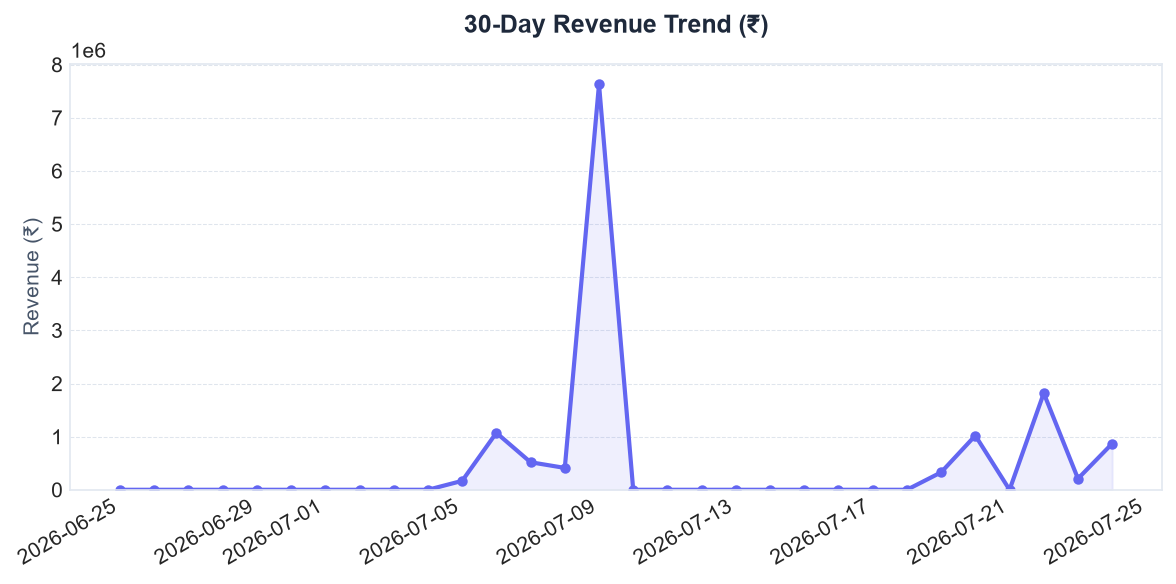
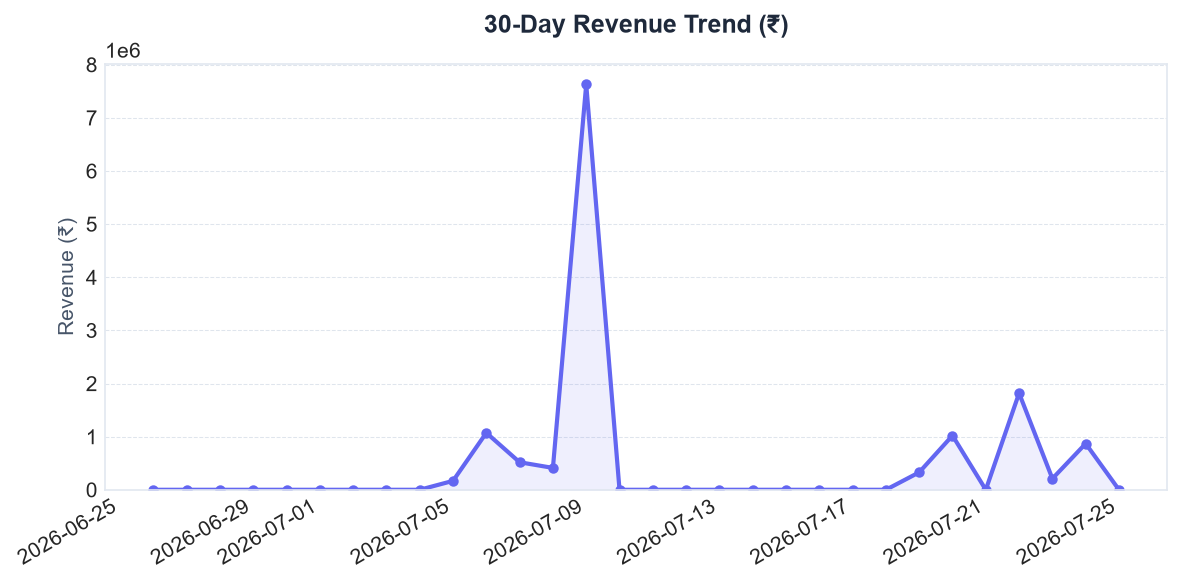
Improve admin side

diff --git a/frontend/src/pages/AdminDashboard.jsx b/frontend/src/pages/AdminDashboard.jsx
@@ -1469,40 +1469,40 @@ export const AdminDashboard = () => {
             <div className="flex flex-wrap gap-1 md:space-x-2 border-b border-slate-200 dark:border-slate-800 pb-px mb-8">
               <button
                 onClick={() => handleTabChange('overview')}
-                className={`pb-3 px-3 md:px-4 text-xs md:text-sm border-b-2 transition-all ${
+                className={`pb-3 px-3 md:px-4 text-xs md:text-sm border-b-2 transition-all duration-200 ${
                   activeTab === 'overview'
                     ? 'bg-[rgba(212,167,95,0.15)] text-[#D4A75F] border-[#D4A75F] font-semibold'
-                    : 'border-transparent text-[#B0B7C3] hover:text-white font-normal'
+                    : 'border-transparent text-slate-600 dark:text-[#B0B7C3] hover:text-[#3F1D5A] dark:hover:text-white hover:bg-amber-500/10 dark:hover:bg-transparent rounded-t-lg font-normal'
                 }`}
               >
                 Analytics
               </button>
               <button
                 onClick={() => handleTabChange('products')}
-                className={`pb-3 px-3 md:px-4 text-xs md:text-sm border-b-2 transition-all ${
+                className={`pb-3 px-3 md:px-4 text-xs md:text-sm border-b-2 transition-all duration-200 ${
                   activeTab === 'products'
                     ? 'bg-[rgba(212,167,95,0.15)] text-[#D4A75F] border-[#D4A75F] font-semibold'
-                    : 'border-transparent text-[#B0B7C3] hover:text-white font-normal'
+                    : 'border-transparent text-slate-600 dark:text-[#B0B7C3] hover:text-[#3F1D5A] dark:hover:text-white hover:bg-amber-500/10 dark:hover:bg-transparent rounded-t-lg font-normal'
                 }`}
               >
                 Products
               </button>
               <button
                 onClick={() => handleTabChange('orders')}
-                className={`pb-3 px-3 md:px-4 text-xs md:text-sm border-b-2 transition-all ${
+                className={`pb-3 px-3 md:px-4 text-xs md:text-sm border-b-2 transition-all duration-200 ${
                   activeTab === 'orders'
                     ? 'bg-[rgba(212,167,95,0.15)] text-[#D4A75F] border-[#D4A75F] font-semibold'
-                    : 'border-transparent text-[#B0B7C3] hover:text-white font-normal'
+                    : 'border-transparent text-slate-600 dark:text-[#B0B7C3] hover:text-[#3F1D5A] dark:hover:text-white hover:bg-amber-500/10 dark:hover:bg-transparent rounded-t-lg font-normal'
                 }`}
               >
                 Orders
               </button>
               <button
                 onClick={() => handleTabChange('buy-requests')}
-                className={`pb-3 px-3 md:px-4 text-xs md:text-sm border-b-2 transition-all flex items-center gap-1.5 ${
+                className={`pb-3 px-3 md:px-4 text-xs md:text-sm border-b-2 transition-all duration-200 flex items-center gap-1.5 ${
                   activeTab === 'buy-requests'
                     ? 'bg-[rgba(212,167,95,0.15)] text-[#D4A75F] border-[#D4A75F] font-semibold'
-                    : 'border-transparent text-[#B0B7C3] hover:text-white font-normal'
+                    : 'border-transparent text-slate-600 dark:text-[#B0B7C3] hover:text-[#3F1D5A] dark:hover:text-white hover:bg-amber-500/10 dark:hover:bg-transparent rounded-t-lg font-normal'
                 }`}
               >
                 <span>Buy Requests</span>
@@ -1514,40 +1514,40 @@ export const AdminDashboard = () => {
               </button>
               <button
                 onClick={() => handleTabChange('users')}
-                className={`pb-3 px-3 md:px-4 text-xs md:text-sm border-b-2 transition-all ${
+                className={`pb-3 px-3 md:px-4 text-xs md:text-sm border-b-2 transition-all duration-200 ${
                   activeTab === 'users'
                     ? 'bg-[rgba(212,167,95,0.15)] text-[#D4A75F] border-[#D4A75F] font-semibold'
-                    : 'border-transparent text-[#B0B7C3] hover:text-white font-normal'
+                    : 'border-transparent text-slate-600 dark:text-[#B0B7C3] hover:text-[#3F1D5A] dark:hover:text-white hover:bg-amber-500/10 dark:hover:bg-transparent rounded-t-lg font-normal'
                 }`}
               >
                 Users
               </button>
               <button
                 onClick={() => handleTabChange('support')}
-                className={`pb-3 px-3 md:px-4 text-xs md:text-sm border-b-2 transition-all ${
+                className={`pb-3 px-3 md:px-4 text-xs md:text-sm border-b-2 transition-all duration-200 ${
                   activeTab === 'support'
                     ? 'bg-[rgba(212,167,95,0.15)] text-[#D4A75F] border-[#D4A75F] font-semibold'
-                    : 'border-transparent text-[#B0B7C3] hover:text-white font-normal'
+                    : 'border-transparent text-slate-600 dark:text-[#B0B7C3] hover:text-[#3F1D5A] dark:hover:text-white hover:bg-amber-500/10 dark:hover:bg-transparent rounded-t-lg font-normal'
                 }`}
               >
                 Messages
               </button>
               <button
                 onClick={() => handleTabChange('audit')}
-                className={`pb-3 px-3 md:px-4 text-xs md:text-sm border-b-2 transition-all ${
+                className={`pb-3 px-3 md:px-4 text-xs md:text-sm border-b-2 transition-all duration-200 ${
                   activeTab === 'audit'
                     ? 'bg-[rgba(212,167,95,0.15)] text-[#D4A75F] border-[#D4A75F] font-semibold'
-                    : 'border-transparent text-[#B0B7C3] hover:text-white font-normal'
+                    : 'border-transparent text-slate-600 dark:text-[#B0B7C3] hover:text-[#3F1D5A] dark:hover:text-white hover:bg-amber-500/10 dark:hover:bg-transparent rounded-t-lg font-normal'
                 }`}
               >
                 Audit Trail
               </button>
               <button
                 onClick={() => handleTabChange('notifications')}
-                className={`pb-3 px-3 md:px-4 text-xs md:text-sm border-b-2 transition-all flex items-center gap-1.5 ${
+                className={`pb-3 px-3 md:px-4 text-xs md:text-sm border-b-2 transition-all duration-200 flex items-center gap-1.5 ${
                   activeTab === 'notifications'
                     ? 'bg-[rgba(212,167,95,0.15)] text-[#D4A75F] border-[#D4A75F] font-semibold'
-                    : 'border-transparent text-[#B0B7C3] hover:text-white font-normal'
+                    : 'border-transparent text-slate-600 dark:text-[#B0B7C3] hover:text-[#3F1D5A] dark:hover:text-white hover:bg-amber-500/10 dark:hover:bg-transparent rounded-t-lg font-normal'
                 }`}
               >
                 <span>Notifications</span>

diff --git a/frontend/src/pages/AdminControl.jsx b/frontend/src/pages/AdminControl.jsx
@@ -3172,54 +3172,54 @@ export const AdminControl = () => {
             <div className="flex space-x-2 border-b border-slate-200 dark:border-slate-800 pb-px mb-8 overflow-x-auto">
               <button
                 onClick={() => handleTabChange('products')}
-                className={`pb-3 px-4 text-sm border-b-2 transition-all whitespace-nowrap ${activeTab === 'products'
+                className={`pb-3 px-4 text-sm border-b-2 transition-all duration-200 whitespace-nowrap ${activeTab === 'products'
                     ? 'bg-[rgba(212,167,95,0.15)] text-[#D4A75F] border-[#D4A75F] font-semibold'
-                    : 'border-transparent text-[#B0B7C3] hover:text-white font-normal'
+                    : 'border-transparent text-slate-600 dark:text-[#B0B7C3] hover:text-[#3F1D5A] dark:hover:text-white hover:bg-amber-500/10 dark:hover:bg-transparent rounded-t-lg font-normal'
                   }`}
               >
                 Product Management
               </button>
               <button
                 onClick={() => handleTabChange('users')}
-                className={`pb-3 px-4 text-sm border-b-2 transition-all whitespace-nowrap ${activeTab === 'users'
+                className={`pb-3 px-4 text-sm border-b-2 transition-all duration-200 whitespace-nowrap ${activeTab === 'users'
                     ? 'bg-[rgba(212,167,95,0.15)] text-[#D4A75F] border-[#D4A75F] font-semibold'
-                    : 'border-transparent text-[#B0B7C3] hover:text-white font-normal'
+                    : 'border-transparent text-slate-600 dark:text-[#B0B7C3] hover:text-[#3F1D5A] dark:hover:text-white hover:bg-amber-500/10 dark:hover:bg-transparent rounded-t-lg font-normal'
                   }`}
               >
                 User Management
               </button>
               <button
                 onClick={() => handleTabChange('orders')}
-                className={`pb-3 px-4 text-sm border-b-2 transition-all whitespace-nowrap ${activeTab === 'orders'
+                className={`pb-3 px-4 text-sm border-b-2 transition-all duration-200 whitespace-nowrap ${activeTab === 'orders'
                     ? 'bg-[rgba(212,167,95,0.15)] text-[#D4A75F] border-[#D4A75F] font-semibold'
-                    : 'border-transparent text-[#B0B7C3] hover:text-white font-normal'
+                    : 'border-transparent text-slate-600 dark:text-[#B0B7C3] hover:text-[#3F1D5A] dark:hover:text-white hover:bg-amber-500/10 dark:hover:bg-transparent rounded-t-lg font-normal'
                   }`}
               >
                 Orders Management
               </button>
               <button
                 onClick={() => handleTabChange('support')}
-                className={`pb-3 px-4 text-sm border-b-2 transition-all whitespace-nowrap ${activeTab === 'support'
+                className={`pb-3 px-4 text-sm border-b-2 transition-all duration-200 whitespace-nowrap ${activeTab === 'support'
                     ? 'bg-[rgba(212,167,95,0.15)] text-[#D4A75F] border-[#D4A75F] font-semibold'
-                    : 'border-transparent text-[#B0B7C3] hover:text-white font-normal'
+                    : 'border-transparent text-slate-600 dark:text-[#B0B7C3] hover:text-[#3F1D5A] dark:hover:text-white hover:bg-amber-500/10 dark:hover:bg-transparent rounded-t-lg font-normal'
                   }`}
               >
                 Support Tickets
               </button>
               <button
                 onClick={() => handleTabChange('config')}
-                className={`pb-3 px-4 text-sm border-b-2 transition-all whitespace-nowrap ${activeTab === 'config'
+                className={`pb-3 px-4 text-sm border-b-2 transition-all duration-200 whitespace-nowrap ${activeTab === 'config'
                     ? 'bg-[rgba(212,167,95,0.15)] text-[#D4A75F] border-[#D4A75F] font-semibold'
-                    : 'border-transparent text-[#B0B7C3] hover:text-white font-normal'
+                    : 'border-transparent text-slate-600 dark:text-[#B0B7C3] hover:text-[#3F1D5A] dark:hover:text-white hover:bg-amber-500/10 dark:hover:bg-transparent rounded-t-lg font-normal'
                   }`}
               >
                 Site Configuration
               </button>
               <button
                 onClick={() => handleTabChange('overview')}
-                className={`pb-3 px-4 text-sm border-b-2 transition-all whitespace-nowrap ${activeTab === 'overview'
+                className={`pb-3 px-4 text-sm border-b-2 transition-all duration-200 whitespace-nowrap ${activeTab === 'overview'
                     ? 'bg-[rgba(212,167,95,0.15)] text-[#D4A75F] border-[#D4A75F] font-semibold'
-                    : 'border-transparent text-[#B0B7C3] hover:text-white font-normal'
+                    : 'border-transparent text-slate-600 dark:text-[#B0B7C3] hover:text-[#3F1D5A] dark:hover:text-white hover:bg-amber-500/10 dark:hover:bg-transparent rounded-t-lg font-normal'
                   }`}
               >
                 Analytics
